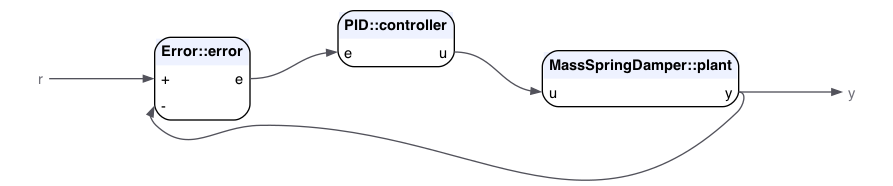
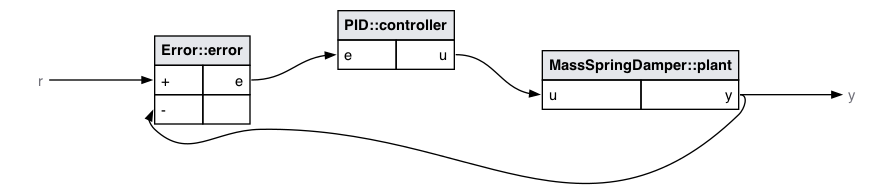
new style

diff --git a/minilink/graphical/diagrams/dot.py b/minilink/graphical/diagrams/dot.py
@@ -44,7 +44,7 @@ class GraphvizTopologyExporter(TopologyExporter):
         graph = graphviz.Digraph(topology.name, engine=engine)
         graph.attr(rankdir=rankdir, nodesep="0.4", ranksep="0.7", fontname=FONT)
         graph.node_attr.update(fontname=FONT, fontsize="11")
-        graph.edge_attr.update(color=WIRE_COLOR, arrowsize="0.7")
+        graph.edge_attr.update(arrowsize="0.7")
 
         # The blocks, each nested diagram inside its box
         render_blocks(graph, topology)
@@ -122,8 +122,7 @@ def get_system_block_html(sys, html_id="sys1"):
 # The HTML-like block labels and their port identifiers
 
 FONT = "Helvetica"
-WIRE_COLOR = "#52525b"
-TITLE_FILL = "#eef2ff"
+TITLE_FILL = "#e5e7eb"
 BOUNDARY_COLOR = "#71717a"
 
 
@@ -138,8 +137,7 @@ def block_html(node):
     if node.kind == "step_system":
         title = f"Step: {title}"
     html = (
-        f'<TABLE BORDER="1" CELLBORDER="0" CELLSPACING="0" CELLPADDING="4" '
-        f'STYLE="rounded">\n'
+        f'<TABLE BORDER="0" CELLBORDER="1" CELLSPACING="0" CELLPADDING="4">\n'
         f"<TR>\n"
         f'<TD align="left" COLSPAN="2" BGCOLOR="{TITLE_FILL}"><B>{title}</B></TD>\n'
         f"</TR>\n"
